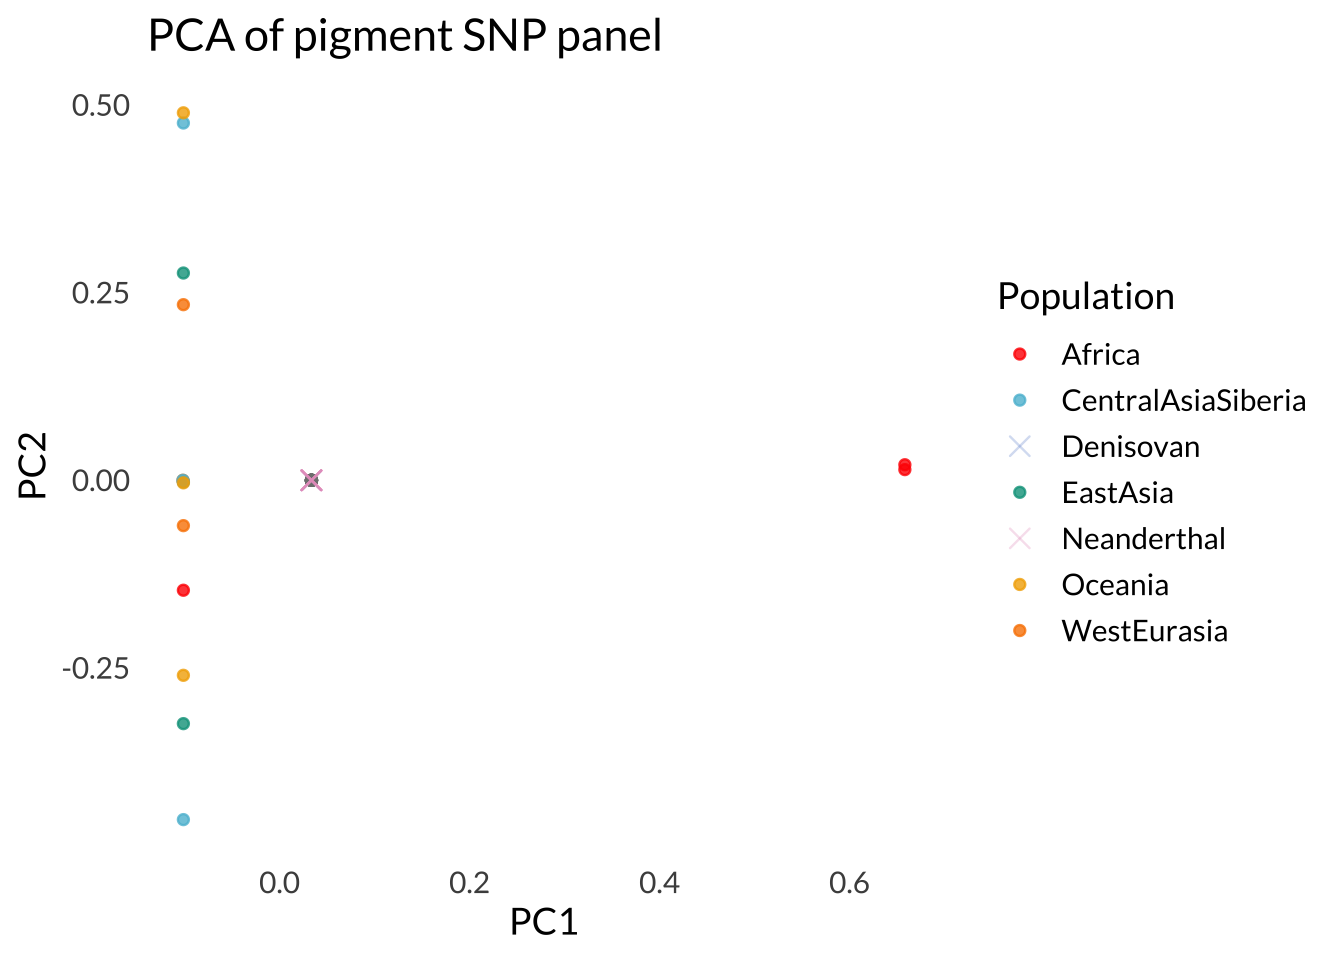
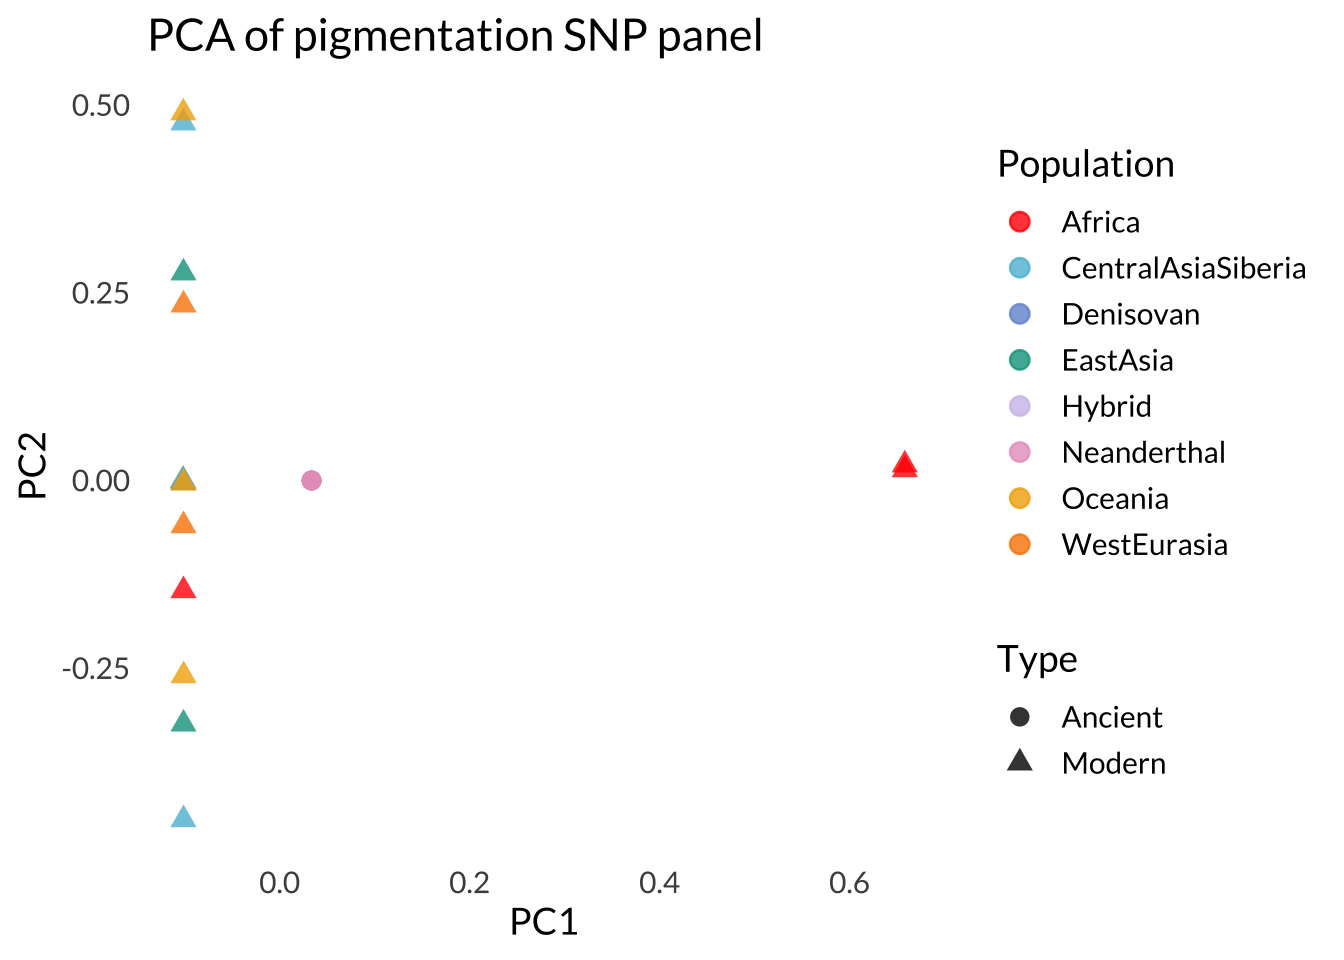
Add pigmentation PCA

diff --git a/docs/pca.html b/docs/pca.html
@@ -399,9 +399,9 @@ aria-hidden="true"></span> </a>
 </p>
 <p>
 <strong>Checks:</strong> <span
-class="glyphicon glyphicon-ok text-success" aria-hidden="true"></span> 6
+class="glyphicon glyphicon-ok text-success" aria-hidden="true"></span> 5
 <span class="glyphicon glyphicon-exclamation-sign text-danger"
-aria-hidden="true"></span> 1
+aria-hidden="true"></span> 2
 </p>
 <p>
 <strong>Knit directory:</strong> <code>~/Documents/GitHub/PAINT/</code>
@@ -514,30 +514,88 @@ run.</p>
 <div class="panel panel-default">
 <div class="panel-heading">
 <p class="panel-title">
-<a data-toggle="collapse" data-parent="#workflowr-checks" href="#strongFilepathsstrongrelative">
-<span class="glyphicon glyphicon-ok text-success"
-aria-hidden="true"></span> <strong>File paths:</strong> relative </a>
+<a data-toggle="collapse" data-parent="#workflowr-checks" href="#strongFilepathsstrongabsolute">
+<span class="glyphicon glyphicon-exclamation-sign text-danger"
+aria-hidden="true"></span> <strong>File paths:</strong> absolute </a>
 </p>
 </div>
-<div id="strongFilepathsstrongrelative" class="panel-collapse collapse">
+<div id="strongFilepathsstrongabsolute" class="panel-collapse collapse">
 <div class="panel-body">
-<p>Great job! Using relative paths to the files within your workflowr
-project makes it easier to run your code on other machines.</p>
+<p>
+Using absolute paths to the files within your workflowr project makes it
+difficult for you and others to run your code on a different machine.
+Change the absolute path(s) below to the suggested relative path(s) to
+make your code more reproducible.
+</p>
+<table class="table table-condensed table-hover">
+<thead>
+<tr>
+<th style="text-align:left;">
+absolute
+</th>
+<th style="text-align:left;">
+relative
+</th>
+</tr>
+</thead>
+<tbody>
+<tr>
+<td style="text-align:left;">
+/Users/lilyheald/Documents/GitHub/PAINT/data/sgdp.wg.pca.eigenvec
+</td>
+<td style="text-align:left;">
+data/sgdp.wg.pca.eigenvec
+</td>
+</tr>
+<tr>
+<td style="text-align:left;">
+/Users/lilyheald/Documents/GitHub/PAINT/data/ancient.projected.sgdp.sscore
+</td>
+<td style="text-align:left;">
+data/ancient.projected.sgdp.sscore
+</td>
+</tr>
+<tr>
+<td style="text-align:left;">
+/Users/lilyheald/Documents/GitHub/PAINT/data/modern_metadata.csv
+</td>
+<td style="text-align:left;">
+data/modern_metadata.csv
+</td>
+</tr>
+<tr>
+<td style="text-align:left;">
+/Users/lilyheald/Documents/GitHub/PAINT/data/pigmentation.pca.eigenvec
+</td>
+<td style="text-align:left;">
+data/pigmentation.pca.eigenvec
+</td>
+</tr>
+<tr>
+<td style="text-align:left;">
+/Users/lilyheald/Documents/GitHub/PAINT/data/ancient.projected.pig.sscore
+</td>
+<td style="text-align:left;">
+data/ancient.projected.pig.sscore
+</td>
+</tr>
+</tbody>
+</table>
 </div>
 </div>
 </div>
 <div class="panel panel-default">
 <div class="panel-heading">
 <p class="panel-title">
-<a data-toggle="collapse" data-parent="#workflowr-checks" href="#strongRepositoryversionstrongahrefhttpsgithubcomlilyhealdPAINTtreed9ec58fd07c5272e127ac75a220bc6b3b47b9a32targetblankd9ec58fa">
+<a data-toggle="collapse" data-parent="#workflowr-checks" href="#strongRepositoryversionstrongahrefhttpsgithubcomlilyhealdPAINTtree4bed3e5f4d72fe43d4281a58f4606c6b062e162atargetblank4bed3e5a">
 <span class="glyphicon glyphicon-ok text-success"
 aria-hidden="true"></span> <strong>Repository version:</strong>
-<a href="https://github.com/lilyheald/PAINT/tree/d9ec58fd07c5272e127ac75a220bc6b3b47b9a32" target="_blank">d9ec58f</a>
+<a href="https://github.com/lilyheald/PAINT/tree/4bed3e5f4d72fe43d4281a58f4606c6b062e162a" target="_blank">4bed3e5</a>
 </a>
 </p>
 </div>
 <div
[2 lines of base64/hex data omitted]
 class="panel-collapse collapse">
 <div class="panel-body">
 <p>
@@ -547,7 +605,7 @@ reproducibility.
 </p>
 <p>
 The results in this page were generated with repository version
-<a href="https://github.com/lilyheald/PAINT/tree/d9ec58fd07c5272e127ac75a220bc6b3b47b9a32" target="_blank">d9ec58f</a>.
+<a href="https://github.com/lilyheald/PAINT/tree/4bed3e5f4d72fe43d4281a58f4606c6b062e162a" target="_blank">4bed3e5</a>.
 See the <em>Past versions</em> tab to see a history of the changes made
 to the R Markdown and HTML files.
 </p>
@@ -568,19 +626,72 @@ Ignored files:
     Ignored:    analysis/.Rhistory
     Ignored:    analysis/.Rproj.user/
     Ignored:    analysis/depth_spinoff.Rmd
+    Ignored:    data/allele_ref.txt
     Ignored:    data/ancient.projected.log
+    Ignored:    data/ancient_aligned.bed
+    Ignored:    data/ancient_aligned.bim
+    Ignored:    data/ancient_aligned.fam
+    Ignored:    data/ancient_aligned.log
     Ignored:    data/ancient_depth.csv
     Ignored:    data/ancient_depth_clean.csv
+    Ignored:    data/ancient_matched.bed
+    Ignored:    data/ancient_matched.bim
+    Ignored:    data/ancient_matched.fam
+    Ignored:    data/ancient_matched.log
     Ignored:    data/ancient_metadata.csv
+    Ignored:    data/ancient_pigment.bed
+    Ignored:    data/ancient_pigment.bim
+    Ignored:    data/ancient_pigment.fam
+    Ignored:    data/ancient_pigment.log
+    Ignored:    data/ancient_pigmentation.bed
+    Ignored:    data/ancient_pigmentation.bim
+    Ignored:    data/ancient_pigmentation.fam
+    Ignored:    data/ancient_pigmentation.log
+    Ignored:    data/ancient_pigmentation.projected.log
     Ignored:    data/ancient_pigmentation.vcf.gz
+    Ignored:    data/ancient_pigmentation.vcf.gz.tbi
+    Ignored:    data/ancient_temp.bed
+    Ignored:    data/ancient_temp.bim
+    Ignored:    data/ancient_temp.fam
+    Ignored:    data/ancient_temp.log
+    Ignored:    data/ancient_temp.pgen
+    Ignored:    data/ancient_temp.psam
+    Ignored:    data/ancient_temp.pvar
+    Ignored:    data/modern_matched.bed
+    Ignored:    data/modern_matched.bim
+    Ignored:    data/modern_matched.fam
+    Ignored:    data/modern_matched.log
+    Ignored:    data/modern_matched.pgen
+    Ignored:    data/modern_matched.psam
+    Ignored:    data/modern_matched.pvar
     Ignored:    data/modern_metadata.csv
     Ignored:    data/neo_uvi.csv
+    Ignored:    data/pigmentation.cleaned.log
+    Ignored:    data/pigmentation.cleaned.pgen
+    Ignored:    data/pigmentation.cleaned.psam
+    Ignored:    data/pigmentation.cleaned.pvar
     Ignored:    data/pigmentation.freq.afreq
+    Ignored:    data/pigmentation.freq.log
     Ignored:    data/pigmentation.pca.eigenval
     Ignored:    data/pigmentation.pca.eigenvec.allele
     Ignored:    data/pigmentation.pca.log
+    Ignored:    data/pigmentation_freq.log
+    Ignored:    data/pigmentation_merged-merge.psam
+    Ignored:    data/pigmentation_merged-merge.pvar
+    Ignored:    data/pigmentation_merged.log
+    Ignored:    data/pigmentation_snps.bed
+    Ignored:    data/pigmentation_snps.bim
     Ignored:    data/pigmentation_snps.csv
+    Ignored:    data/pigmentation_snps.fam
+    Ignored:    data/pigmentation_snps.fixed.bed
+    Ignored:    data/pigmentation_snps.fixed.bim
+    Ignored:    data/pigmentation_snps.fixed.fam
+    Ignored:    data/pigmentation_snps.fixed.log
+    Ignored:    data/pigmentation_snps.fixed.pgen
+    Ignored:    data/pigmentation_snps.fixed.psam
+    Ignored:    data/pigmentation_snps.fixed.pvar
     Ignored:    data/pigmentation_snps.vcf.gz
+    Ignored:    data/pigmentation_snps.vcf.gz.tbi
     Ignored:    data/pigmentation_snps_freq.afreq
     Ignored:    data/pigmentation_snps_pca.eigenval
     Ignored:    data/sgdp.wg.afreq
@@ -592,72 +703,8 @@ Ignored files:
     Ignored:    plink2.zip
     Ignored:    test.log
 
-Untracked files:
-    Untracked:  analysis/pig_pca_proj.py
-    Untracked:  data/allele_ref.txt
-    Untracked:  data/ancient.projected.sscore.vars
-    Untracked:  data/ancient_aligned.bed
-    Untracked:  data/ancient_aligned.bim
-    Untracked:  data/ancient_aligned.fam
-    Untracked:  data/ancient_aligned.log
-    Untracked:  data/ancient_matched.bed
-    Untracked:  data/ancient_matched.bim
-    Untracked:  data/ancient_matched.fam
-    Untracked:  data/ancient_matched.log
-    Untracked:  data/ancient_pigment.bed
-    Untracked:  data/ancient_pigment.bim
-    Untracked:  data/ancient_pigment.fam
-    Untracked:  data/ancient_pigment.log
-    Untracked:  data/ancient_pigmentation.bed
-    Untracked:  data/ancient_pigmentation.bim
-    Untracked:  data/ancient_pigmentation.fam
-    Untracked:  data/ancient_pigmentation.log
-    Untracked:  data/ancient_pigmentation.projected.log
-    Untracked:  data/ancient_pigmentation.projected.sscore.tmp
-    Untracked:  data/ancient_pigmentation.vcf.gz.tbi
-    Untracked:  data/ancient_temp.bed
-    Untracked:  data/ancient_temp.bim
-    Untracked:  data/ancient_temp.fam
-    Untracked:  data/ancient_temp.log
-    Untracked:  data/ancient_temp.pgen
-    Untracked:  data/ancient_temp.psam
-    Untracked:  data/ancient_temp.pvar
-    Untracked:  data/modern_matched.bed
-    Untracked:  data/modern_matched.bim
-    Untracked:  data/modern_matched.fam
-    Untracked:  data/modern_matched.log
-    Untracked:  data/modern_matched.pgen
-    Untracked:  data/modern_matched.psam
-    Untracked:  data/modern_matched.pvar
-    Untracked:  data/pigmentation.cleaned.log
-    Untracked:  data/pigmentation.cleaned.pgen
-    Untracked:  data/pigmentation.cleaned.psam
-    Untracked:  data/pigmentation.cleaned.pvar
-    Untracked:  data/pigmentation.freq.log
-    Untracked:  data/pigmentation.pca.eigenvec
-    Untracked:  data/pigmentation_freq.log
-    Untracked:  data/pigmentation_merged-merge.psam
-    Untracked:  data/pigmentation_merged-merge.pvar
-    Untracked:  data/pigmentation_merged.log
-    Untracked:  data/pigmentation_snps.bed
-    Untracked:  data/pigmentation_snps.bim
-    Untracked:  data/pigmentation_snps.fam
-    Untracked:  data/pigmentation_snps.fixed.bed
-    Untracked:  data/pigmentation_snps.fixed.bim
-    Untracked:  data/pigmentation_snps.fixed.fam
-    Untracked:  data/pigmentation_snps.fixed.log
-    Untracked:  data/pigmentation_snps.fixed.pgen
-    Untracked:  data/pigmentation_snps.fixed.psam
-    Untracked:  data/pigmentation_snps.fixed.pvar
-    Untracked:  data/pigmentation_snps.vcf.gz.tbi
-    Untracked:  data/pigmentation_snps_pca.eigenvec
-    Untracked:  data/pigmentation_snps_pca.eigenvec.var
-    Untracked:  data/snps.txt
-
 Unstaged changes:
     Modified:   analysis/pca.Rmd
-    Modified:   analysis/pca_proj.py
-    Modified:   data/ancient.projected.sscore
 
 </code></pre>
 <p>
@@ -701,6 +748,40 @@ Message
 </tr>
 </thead>
 <tbody>
+<tr>
+<td>
+Rmd
+</td>
+<td>
+<a href="https://github.com/lilyheald/PAINT/blob/4bed3e5f4d72fe43d4281a58f4606c6b062e162a/analysis/pca.Rmd" target="_blank">4bed3e5</a>
+</td>
+<td>
+Lily Heald
+</td>
+<td>
+2026-04-13
+</td>
+<td>
+Add pigmentation PCA
+</td>
+</tr>
+<tr>
+<td>
+html
+</td>
+<td>
+<a href="https://rawcdn.githack.com/lilyheald/PAINT/4bed3e5f4d72fe43d4281a58f4606c6b062e162a/docs/pca.html" target="_blank">4bed3e5</a>
+</td>
+<td>
+Lily Heald
+</td>
+<td>
+2026-04-13
+</td>
+<td>
+Add pigmentation PCA
+</td>
+</tr>
 <tr>
 <td>
 html
@@ -1041,6 +1122,17 @@ Date
 <tbody>
 <tr>
 <td>
+<a href="https://github.com/lilyheald/PAINT/blob/4bed3e5f4d72fe43d4281a58f4606c6b062e162a/docs/figure/pca.Rmd/plot-1.png" target="_blank">4bed3e5</a>
+</td>
+<td>
+Lily Heald
+</td>
+<td>
+2026-04-13
+</td>
+</tr>
+<tr>
+<td>
 <a href="https://github.com/lilyheald/PAINT/blob/0cedec7812662f373226d13021b1ec7fcef42200/docs/figure/pca.Rmd/plot-1.png" target="_blank">0cedec7</a>
 </td>
 <td>
@@ -1092,6 +1184,43 @@ Lily Heald
 <div id="pigmentation-subset" class="section level1">
 <h1>Pigmentation subset</h1>
 <p><img src="figure/pca.Rmd/plot2-1.png" alt="" width="672" style="display: block; margin: auto;" /></p>
+<p>
+<button type="button" class="btn btn-default btn-xs btn-workflowr btn-workflowr-fig" data-toggle="collapse" data-target="#fig-plot2-1">
+Past versions of plot2-1.png
+</button>
+</p>
+<div id="fig-plot2-1" class="collapse">
+<div class="table-responsive">
+<table class="table table-condensed table-hover">
+<thead>
+<tr>
+<th>
+Version
+</th>
+<th>
+Author
+</th>
+<th>
+Date
+</th>
+</tr>
+</thead>
+<tbody>
+<tr>
+<td>
+<a href="https://github.com/lilyheald/PAINT/blob/4bed3e5f4d72fe43d4281a58f4606c6b062e162a/docs/figure/pca.Rmd/plot2-1.png" target="_blank">4bed3e5</a>
+</td>
+<td>
+Lily Heald
+</td>
+<td>
+2026-04-13
+</td>
+</tr>
+</tbody>
+</table>
+</div>
+</div>
 <br>
 <p>
 <button type="button" class="btn btn-default btn-workflowr btn-workflowr-sessioninfo" data-toggle="collapse" data-target="#workflowr-sessioninfo" style="display: block;">
